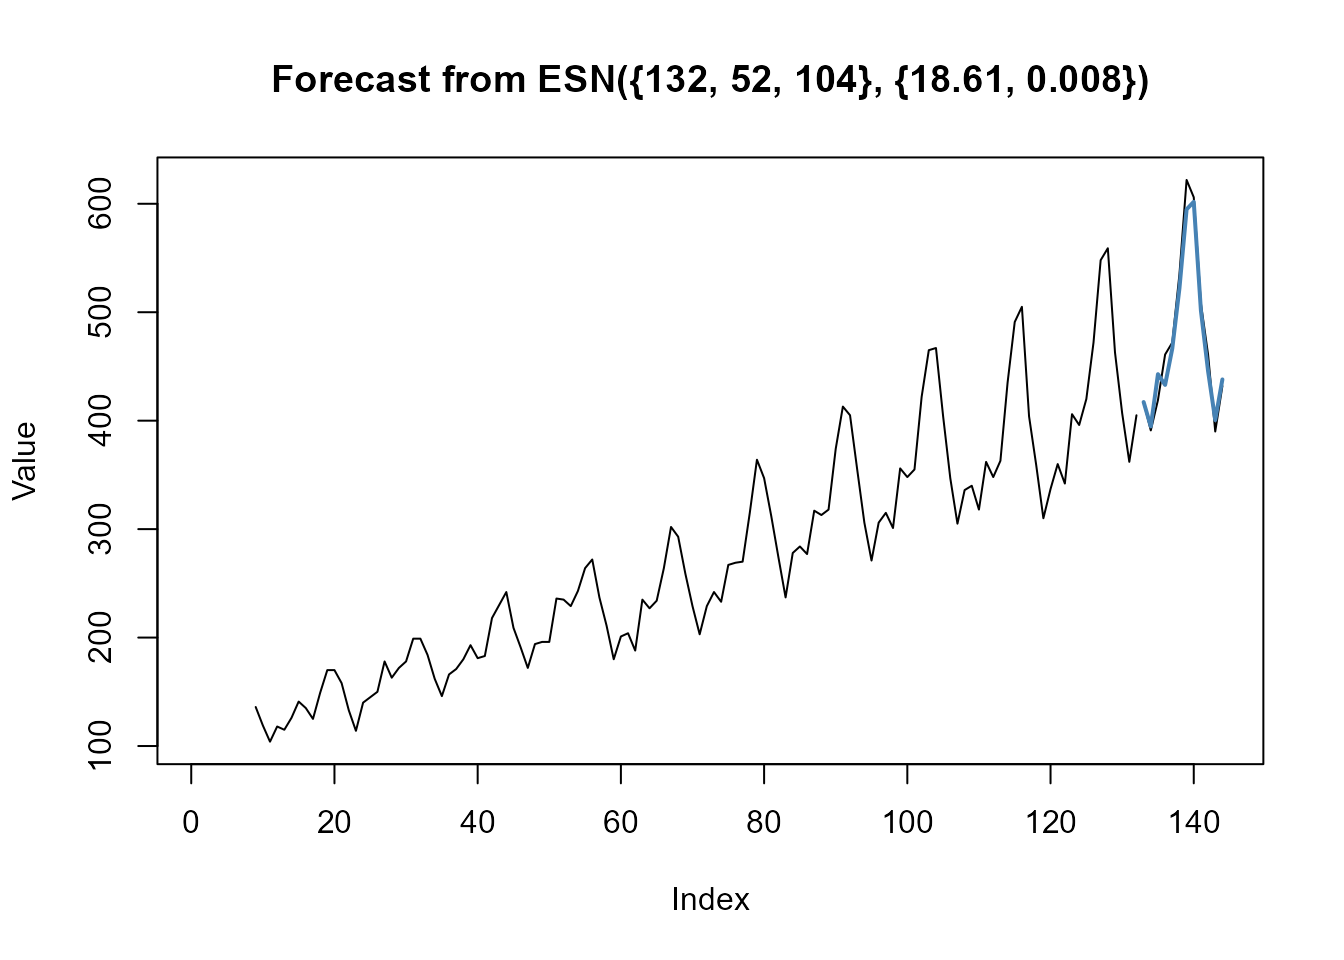
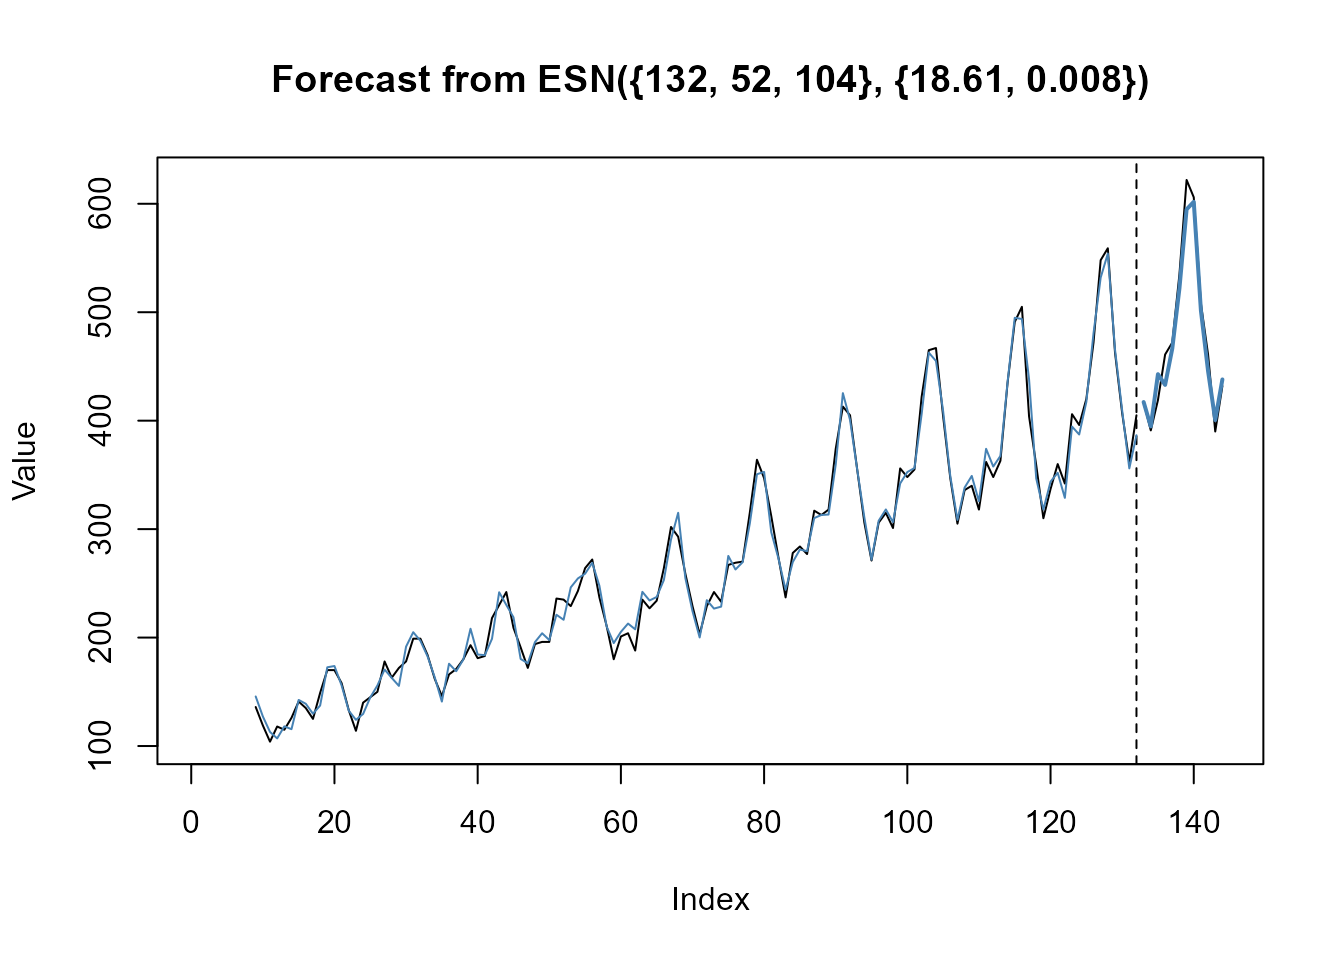
Update NAMESPACE and package website

diff --git a/docs/reference/plot.forecast_esn.html b/docs/reference/plot.forecast_esn.html
@@ -1,7 +1,9 @@
 <!DOCTYPE html>
-<!-- Generated by pkgdown: do not edit by hand --><html lang="en"><head><meta http-equiv="Content-Type" content="text/html; charset=UTF-8"><meta charset="utf-8"><meta http-equiv="X-UA-Compatible" content="IE=edge"><meta name="viewport" content="width=device-width, initial-scale=1, shrink-to-fit=no"><title>Plot point forecasts and actuals of a trained ESN model. — plot.forecast_esn • echos</title><!-- favicons --><link rel="icon" type="image/png" sizes="16x16" href="../favicon-16x16.png"><link rel="icon" type="image/png" sizes="32x32" href="../favicon-32x32.png"><link rel="apple-touch-icon" type="image/png" sizes="180x180" href="../apple-touch-icon.png"><link rel="apple-touch-icon" type="image/png" sizes="120x120" href="../apple-touch-icon-120x120.png"><link rel="apple-touch-icon" type="image/png" sizes="76x76" href="../apple-touch-icon-76x76.png"><link rel="apple-touch-icon" type="image/png" sizes="60x60" href="../apple-touch-icon-60x60.png"><script src="../deps/jquery-3.6.0/jquery-3.6.0.min.js"></script><meta name="viewport" content="width=device-width, initial-scale=1, shrink-to-fit=no"><link href="../deps/bootstrap-5.3.1/bootstrap.min.css" rel="stylesheet"><script src="../deps/bootstrap-5.3.1/bootstrap.bundle.min.js"></script><link href="../deps/font-awesome-6.5.2/css/all.min.css" rel="stylesheet"><link href="../deps/font-awesome-6.5.2/css/v4-shims.min.css" rel="stylesheet"><script src="../deps/headroom-0.11.0/headroom.min.js"></script><script src="../deps/headroom-0.11.0/jQuery.headroom.min.js"></script><script src="../deps/bootstrap-toc-1.0.1/bootstrap-toc.min.js"></script><script src="../deps/clipboard.js-2.0.11/clipboard.min.js"></script><script src="../deps/search-1.0.0/autocomplete.jquery.min.js"></script><script src="../deps/search-1.0.0/fuse.min.js"></script><script src="../deps/search-1.0.0/mark.min.js"></script><!-- pkgdown --><script src="../pkgdown.js"></script><meta property="og:title" content="Plot point forecasts and actuals of a trained ESN model. — plot.forecast_esn"><meta name="description" content="Plot point forecasts and actuals of a trained ESN model as line
-  chart. Optionally, test data (out-of-sample) can be added to the plot."><meta property="og:description" content="Plot point forecasts and actuals of a trained ESN model as line
-  chart. Optionally, test data (out-of-sample) can be added to the plot."><meta property="og:image" content="https://ahaeusser.github.io/echos/logo.png"></head><body>
+<!-- Generated by pkgdown: do not edit by hand --><html lang="en"><head><meta http-equiv="Content-Type" content="text/html; charset=UTF-8"><meta charset="utf-8"><meta http-equiv="X-UA-Compatible" content="IE=edge"><meta name="viewport" content="width=device-width, initial-scale=1, shrink-to-fit=no"><title>Plot point forecasts and actual values of a trained ESN model. — plot.forecast_esn • echos</title><!-- favicons --><link rel="icon" type="image/png" sizes="16x16" href="../favicon-16x16.png"><link rel="icon" type="image/png" sizes="32x32" href="../favicon-32x32.png"><link rel="apple-touch-icon" type="image/png" sizes="180x180" href="../apple-touch-icon.png"><link rel="apple-touch-icon" type="image/png" sizes="120x120" href="../apple-touch-icon-120x120.png"><link rel="apple-touch-icon" type="image/png" sizes="76x76" href="../apple-touch-icon-76x76.png"><link rel="apple-touch-icon" type="image/png" sizes="60x60" href="../apple-touch-icon-60x60.png"><script src="../deps/jquery-3.6.0/jquery-3.6.0.min.js"></script><meta name="viewport" content="width=device-width, initial-scale=1, shrink-to-fit=no"><link href="../deps/bootstrap-5.3.1/bootstrap.min.css" rel="stylesheet"><script src="../deps/bootstrap-5.3.1/bootstrap.bundle.min.js"></script><link href="../deps/font-awesome-6.5.2/css/all.min.css" rel="stylesheet"><link href="../deps/font-awesome-6.5.2/css/v4-shims.min.css" rel="stylesheet"><script src="../deps/headroom-0.11.0/headroom.min.js"></script><script src="../deps/headroom-0.11.0/jQuery.headroom.min.js"></script><script src="../deps/bootstrap-toc-1.0.1/bootstrap-toc.min.js"></script><script src="../deps/clipboard.js-2.0.11/clipboard.min.js"></script><script src="../deps/search-1.0.0/autocomplete.jquery.min.js"></script><script src="../deps/search-1.0.0/fuse.min.js"></script><script src="../deps/search-1.0.0/mark.min.js"></script><!-- pkgdown --><script src="../pkgdown.js"></script><meta property="og:title" content="Plot point forecasts and actual values of a trained ESN model. — plot.forecast_esn"><meta name="description" content="Plot point forecasts, actual and fitted values of a trained ESN
+  model as line chart. Optionally, test data (out-of-sample) can be added to
+  the plot."><meta property="og:description" content="Plot point forecasts, actual and fitted values of a trained ESN
+  model as line chart. Optionally, test data (out-of-sample) can be added to
+  the plot."><meta property="og:image" content="https://ahaeusser.github.io/echos/logo.png"></head><body>
     <a href="#main" class="visually-hidden-focusable">Skip to contents</a>
 
 
@@ -34,20 +36,21 @@
 </nav><div class="container template-reference-topic">
 <div class="row">
   <main id="main" class="col-md-9"><div class="page-header">
-      <img src="../logo.png" class="logo" alt=""><h1>Plot point forecasts and actuals of a trained ESN model.</h1>
+      <img src="../logo.png" class="logo" alt=""><h1>Plot point forecasts and actual values of a trained ESN model.</h1>
       <small class="dont-index">Source: <a href="https://github.com/ahaeusser/echos/blob/HEAD/R/methods-base.R" class="external-link"><code>R/methods-base.R</code></a></small>
       <div class="d-none name"><code>plot.forecast_esn.Rd</code></div>
     </div>
 
     <div class="ref-description section level2">
-    <p>Plot point forecasts and actuals of a trained ESN model as line
-  chart. Optionally, test data (out-of-sample) can be added to the plot.</p>
+    <p>Plot point forecasts, actual and fitted values of a trained ESN
+  model as line chart. Optionally, test data (out-of-sample) can be added to
+  the plot.</p>
     </div>
 
     <div class="section level2">
     <h2 id="ref-usage">Usage<a class="anchor" aria-label="anchor" href="#ref-usage"></a></h2>
     <div class="sourceCode"><pre class="sourceCode r"><code><span><span class="co"># S3 method for class 'forecast_esn'</span></span>
-<span><span class="fu"><a href="https://rdrr.io/r/graphics/plot.default.html" class="external-link">plot</a></span><span class="op">(</span><span class="va">x</span>, test <span class="op">=</span> <span class="cn">NULL</span>, <span class="va">...</span><span class="op">)</span></span></code></pre></div>
+<span><span class="fu"><a href="https://rdrr.io/r/graphics/plot.default.html" class="external-link">plot</a></span><span class="op">(</span><span class="va">x</span>, test <span class="op">=</span> <span class="cn">NULL</span>, fitted <span class="op">=</span> <span class="cn">TRUE</span>, <span class="va">...</span><span class="op">)</span></span></code></pre></div>
     </div>
 
     <div class="section level2">
@@ -60,6 +63,10 @@
 
 <dt id="arg-test">test<a class="anchor" aria-label="anchor" href="#arg-test"></a></dt>
 <dd><p>Numeric vector. Test data, i.e., out-of-sample actual values.</p></dd>
+
+
+<dt id="arg-fitted">fitted<a class="anchor" aria-label="anchor" href="#arg-fitted"></a></dt>
+<dd><p>Logical value. If <code>TRUE</code>, fitted values are added.</p></dd>
 
 
 <dt id="arg--">...<a class="anchor" aria-label="anchor" href="#arg--"></a></dt>

diff --git a/docs/authors.html b/docs/authors.html
@@ -48,14 +48,14 @@
       <h2 id="citation">Citation</h2>
       <p><small class="dont-index">Source: <a href="https://github.com/ahaeusser/echos/blob/HEAD/DESCRIPTION" class="external-link"><code>DESCRIPTION</code></a></small></p>
 
-      <p>Häußer A (2024).
+      <p>Häußer A (2025).
 <em>echos: Echo State Networks for Time Series Modeling and Forecasting</em>.
 R package version 1.0.1, https://ahaeusser.github.io/echos/, <a href="https://github.com/ahaeusser/echos" class="external-link">https://github.com/ahaeusser/echos</a>.
 </p>
       <pre>@Manual{,
   title = {echos: Echo State Networks for Time Series Modeling and Forecasting},
   author = {Alexander Häußer},
-  year = {2024},
+  year = {2025},
   note = {R package version 1.0.1, https://ahaeusser.github.io/echos/},
   url = {https://github.com/ahaeusser/echos},
 }</pre>

diff --git a/docs/news/index.html b/docs/news/index.html
@@ -37,7 +37,7 @@
     </div>
 
     <div class="section level2">
-<h2 class="pkg-version" data-toc-text="1.0.1" id="echos-101">echos 1.0.1<a class="anchor" aria-label="anchor" href="#echos-101"></a></h2>
+<h2 class="pkg-version" data-toc-text="1.0.1" id="echos-101">echos 1.0.1<a class="anchor" aria-label="anchor" href="#echos-101"></a></h2><p class="text-muted">CRAN release: 2025-02-11</p>
 <ul><li>Updates due to CRAN comments</li>
 </ul></div>
     <div class="section level2">

diff --git a/docs/index.html b/docs/index.html
@@ -138,6 +138,7 @@
   </main><aside class="col-md-3"><div class="links">
 <h2 data-toc-skip>Links</h2>
 <ul class="list-unstyled">
+<li><a href="https://cloud.r-project.org/package=echos" class="external-link">View on CRAN</a></li>
 <li><a href="https://github.com/ahaeusser/echos/" class="external-link">Browse source code</a></li>
 <li><a href="https://github.com/ahaeusser/echos/issues" class="external-link">Report a bug</a></li>
 </ul>

diff --git a/docs/reference/index.html b/docs/reference/index.html
@@ -87,7 +87,7 @@
           <code><a href="plot.forecast_esn.html">plot(<i>&lt;forecast_esn&gt;</i>)</a></code>
 
         </dt>
-        <dd>Plot point forecasts and actuals of a trained ESN model.</dd>
+        <dd>Plot point forecasts and actual values of a trained ESN model.</dd>
       </dl><dl><dt>
 
           <code><a href="run_reservoir.html">run_reservoir</a></code>
